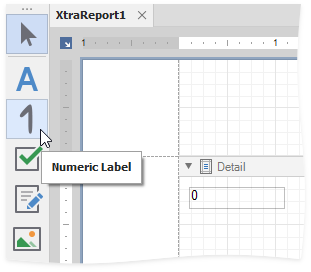
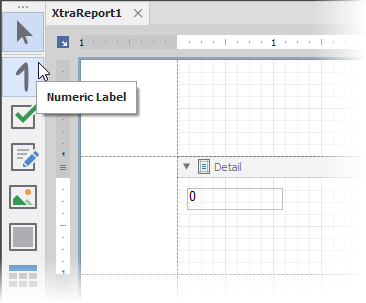
auto sync for version 2021.2

diff --git a/CS/Form1.cs b/CS/Form1.cs
@@ -1,41 +1,49 @@
-using System;
-using System.Windows.Forms;
 using DevExpress.XtraReports.UI;
 using DevExpress.XtraReports.UserDesigner;
+using System;
 using System.Drawing.Design;
+using System.Windows.Forms;
 
-namespace WinFormsApp_CustomNumericLabel {
+namespace WinFormsApp_CustomNumericLabel
+{
     public partial class Form1 : Form {
         public Form1() {
             InitializeComponent();
         }
-
-        private void Form1_Load(object sender, EventArgs e) {
-            // Create a Design Tool with an assigned report instance.
+        private void button1_Click(object sender, EventArgs e)
+        {
+            ShowDesignerWithCustomControl();
+        }
+        void ShowDesignerWithCustomControl()
+        {
+            // Creates a Design Tool instance with the specified report instance.
             ReportDesignTool designTool = new ReportDesignTool(new XtraReport1());
-
-            // Access the standard form.
             IDesignForm designForm = designTool.DesignForm;
-
-            // Handle the Design Panel's Loaded event.
             designForm.DesignMdiController.DesignPanelLoaded += DesignMdiController_DesignPanelLoaded;
-
-            // Load a Report Designer in a dialog window.
             designTool.ShowDesignerDialog();
         }
+
         void DesignMdiController_DesignPanelLoaded(object sender, DesignerLoadedEventArgs e) {
-            // Access the Toolbox service.
             IToolboxService toolboxService =
                 (IToolboxService)e.DesignerHost.GetService(typeof(IToolboxService));
-
-            // Create a new toolbox item for the custom control.
-            ToolboxItem numericLabelItem = new ToolboxItem(typeof(NumericLabel));
-
-            // Specify the control's name to be displayed in the toolbox.
-            numericLabelItem.DisplayName = "Numeric Label";
-
-            // Add the new control to the toolbox.
+            // Removes the XRLabel toolbox item.
+            toolboxService.RemoveToolboxItem(
+                GetToolBoxControl(toolboxService, "DevExpress.XtraReports.UI.XRLabel"));
+            // Creates a new toolbox item for the custom control.
+            ToolboxItem numericLabelItem = new ToolboxItem(typeof(NumericLabel))
+            {
+                // Specifies the name in the toolbox.
+                DisplayName = "Numeric Label"
+            };
+            // Adds the new control to the toolbox.
             toolboxService.AddToolboxItem(numericLabelItem);
+        }
+
+        ToolboxItem GetToolBoxControl(IToolboxService toolboxService, string name) {
+            foreach (ToolboxItem item in toolboxService.GetToolboxItems()) {
+                if (item.TypeName == name) { return item; };
+            }
+            return null;
         }
     }
 }

diff --git a/CS/Form1.Designer.cs b/CS/Form1.Designer.cs
@@ -23,21 +23,34 @@
         /// the contents of this method with the code editor.
         /// </summary>
         private void InitializeComponent() {
+            this.button1 = new System.Windows.Forms.Button();
             this.SuspendLayout();
+            // 
+            // button1
+            // 
+            this.button1.Location = new System.Drawing.Point(141, 54);
+            this.button1.Name = "button1";
+            this.button1.Size = new System.Drawing.Size(127, 23);
+            this.button1.TabIndex = 0;
+            this.button1.Text = "Open a Report";
+            this.button1.UseVisualStyleBackColor = true;
+            this.button1.Click += new System.EventHandler(this.button1_Click);
             // 
             // Form1
             // 
             this.AutoScaleDimensions = new System.Drawing.SizeF(6F, 13F);
             this.AutoScaleMode = System.Windows.Forms.AutoScaleMode.Font;
-            this.ClientSize = new System.Drawing.Size(800, 450);
+            this.ClientSize = new System.Drawing.Size(408, 130);
+            this.Controls.Add(this.button1);
             this.Name = "Form1";
             this.Text = "Form1";
-            this.Load += new System.EventHandler(this.Form1_Load);
             this.ResumeLayout(false);
 
         }
 
         #endregion
+
+        private System.Windows.Forms.Button button1;
     }
 }
 

diff --git a/README.md b/README.md
@@ -1,17 +1,20 @@
-<!-- default badges list -->
-![](https://img.shields.io/endpoint?url=https://codecentral.devexpress.com/api/v1/VersionRange/325215546/2020.2)
-[![](https://img.shields.io/badge/Open_in_DevExpress_Support_Center-FF7200?style=flat-square&logo=DevExpress&logoColor=white)](https://supportcenter.devexpress.com/ticket/details/T961004)
-[![](https://img.shields.io/badge/📖_How_to_use_DevExpress_Examples-e9f6fc?style=flat-square)](https://docs.devexpress.com/GeneralInformation/403183)
-<!-- default badges end -->
-# Add a Custom Control to the End-User Report Designer Toolbox (WinForms)
+# Add a Custom Control to the End-User Report Designer Toolbox (WinForms)
 
 This example demonstrates how to add a [custom numeric label control](https://docs.devexpress.com/XtraReports/3307) to the [End-User Report Designer](https://docs.devexpress.com/XtraReports/10715) Toolbox in a WinForms application.
 
 ![](Images/winforms-eurd-custom-numeric-label.png)
 
-Files to look at:
+## Files to Look At
 
-* CS: [NumericLabel.cs](./CS/NumericLabel.cs) and [Form1.cs](./CS/Form1.cs).
-* VB: [NumericLabel.vb](./VB/NumericLabel.vb) and [Form1.vb](./VB/Form1.vb).
+- [NumericLabel.cs](CS/NumericLabel.cs) [NumericLabel.vb](VB/NumericLabel.vb)
+- [Form1.cs](CS/Form1.cs) [Form1.vb](VB/Form1.vb)
 
-Refer to the following topic for more details: [Add a Custom Control to the End-User Report Designer Toolbox (WinForms)](https://docs.devexpress.com/XtraReports/7546).
+
+## Documentation
+
+- [Add a Custom Control to the End-User Report Designer Toolbox (WinForms)](https://docs.devexpress.com/XtraReports/7546/winforms-reporting/end-user-report-designer-for-winforms/api-and-customization/add-custom-control-to-the-end-user-report-designers-toolbox?v=21.2).
+
+## More Examples
+
+- [How to Create a Custom DevExpress Report Control - Swiss QR Bill Implementation](https://github.com/DevExpress-Examples/Reporting-Custom-Controls)
+- [How to use custom controls for editing report content in Print Preview](https://github.com/DevExpress-Examples/Reporting_how-to-use-custom-controls-for-editing-report-content-in-print-preview-t453603)
